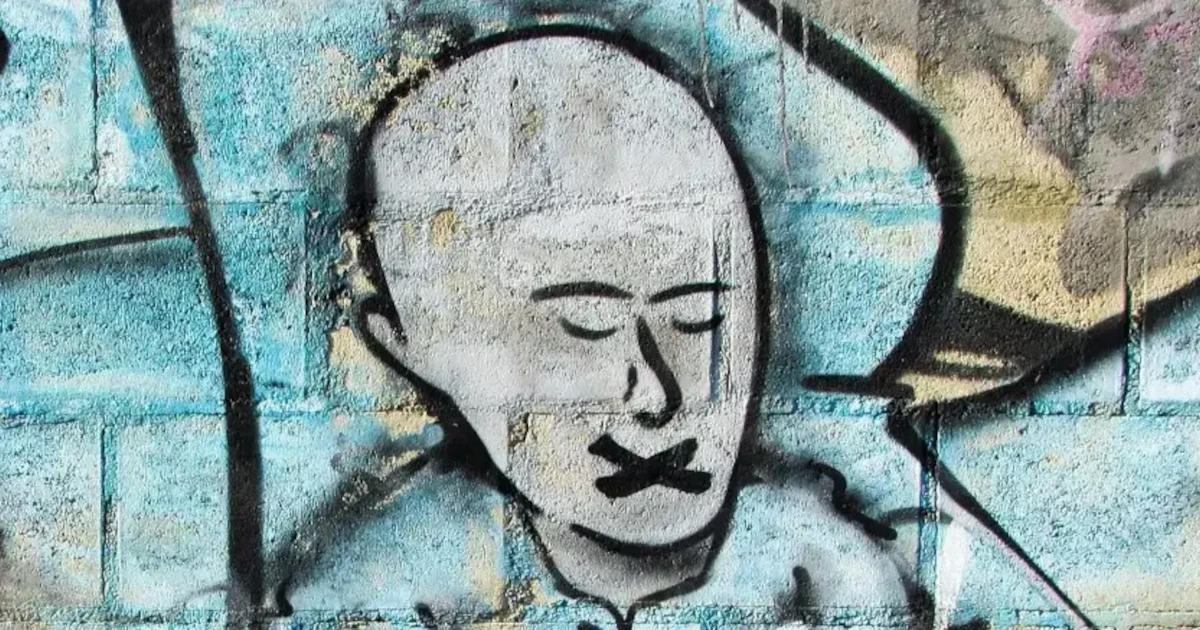
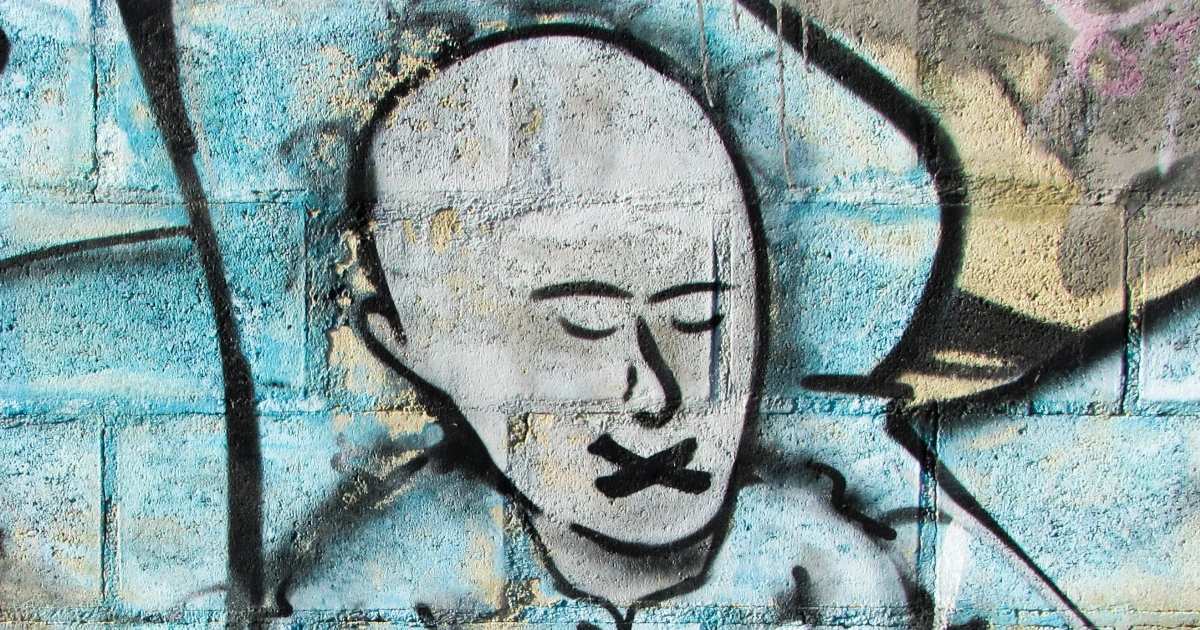
Add post eet-aneb-jak-se-resi-problem-dalsim-problemem, update cover images

Changed region(s): [[0.0, 0.0, 1.0, 1.0]]

diff --git a/_posts/2016-09-07-eet-aneb-jak-se-resi-problem-dalsim-problemem.md b/_posts/2016-09-07-eet-aneb-jak-se-resi-problem-dalsim-problemem.md
@@ -1,0 +1,25 @@
+---
+title: EET aneb Jak se řeší problém dalším problémem
+date: 2016-09-07 14:36:37 +0200
+categories: [Politika]
+tags: []
+image:
+  path: /assets/posts/eet-aneb-jak-se-resi-problem-dalsim-problemem/cover.webp
+  alt: Hromada blyštivých mincí.
+---
+
+Už nás to brzy čeká. Geniální a spásná elektronická evidence tržeb. Od 1. prosince 2016 začne platit pro hotely a restaurace. Od 1. března 2017 potom pro maloobchody a velkoobchody a od roku 2018 (na další dvě etapy) pro zbytek. K čemu je to vlastně dobré? Pomůže to něčemu?
+
+Termín zavedení se několikrát posouval. Ať už to bylo kvůli průtahům ve sněmovně, kvůli tomu, že se zákon několikrát měnil, nebo kvůli technické stránce věci, stále nebylo dlouhou dobu jasné, kdy se má systém spustit. Komické na tom celém ale ani není tak odkládání jako spíš podstata věci. Proč pan Babiš přišel zrovna s něčím takovým? Inspirací mu, dle jeho slov, bylo Chorvatsko. Země, kde podle něj už několik let EET bez problémů funguje. Ale je to skutečně tak?
+
+Od zavedení EET v Chorvatsku se výběr daní nijak razantně nezvýšil (viz [výkaz Ministerstva financí Chorvatska](https://web.archive.org/web/20171112225314/http://www.mfin.hr/adminmax/docs/Drzavni%20proracun%20-%20sijecanj%20-%20studeni%202014.xlsx)). Je vlastně stejný, přestože chorvatská vláda [zvýšila v roce 2012 DPH z 23 % na 25 %](https://www.avalara.com/vatlive/en/vat-news/croatia-introduces-new-vat-rate-rules.html). Nezaměstnanost vzrostla v letech 2012–2015 z 15 % na 17 % a [zhruba 40 tisíc živnostníků skončilo](https://ec.europa.eu/eurostat/databrowser/view/LFSA_ESGAN2__custom_611274/default/table?lang=en). Není vidět ani jeden pozitivní přínos.
+
+A když se nad tím zamyslíte, tak to vlastně ani moc nedává smysl. O co panu Babišovi jde? O poctivější výběr daní? Dobře, to je krásná myšlenka. Ale co zabrání člověku nevytisknout účtenku a vzít si peníze na ruku? Pokud někdo bude chtít podvádět, tak ho EET nezastaví. Navíc je hodně paradoxní fakt, že se evidence vztahuje i na platby kartou. A to i pokud je platba realizována přes prostředníka (PayPal apod.). To znamená, že tyto platby, ačkoli jsou rovnou evidovány na účtu, se ještě jednou musí evidovat pomocí EET. Což se bohužel týká drtivé většiny e-shopů u nás. Pro větší e-shopy to asi až takový problém nebude, ačkoli budou muset zainvestovat do (dost možná drahého) rozšíření systému. Menší e-shopy ale pravděpodobně možnost platby kartou odstraní a pro některé to může být přímo likvidační. No není ta budoucnost skvělá?
+
+Co si ale už pan Babiš neuvědomuje, je to, že nejvíce daňových podvodů se neděje u drobných podnikatelů a živnostníků. To koneckonců dokázal i průběh v Chorvatsku. Výběr daní se nijak nezvýšil. Velké podvody v řádu milionů se prostě a jednoduše dějí ve velkých firmách. A tam nepomůže ani EET.
+
+A nejde jen o daně, nýbrž o zneužívání dotací, pochybné státní zakázky atd. Proč řešit jeden problém dalším problémem? Proč stále jen přidávat další a další komplikace podnikatelům v podobě EET nebo např. kontrolních hlášení (což není nic jiného, než daňové přiznání každý měsíc)? Proč omezovat lidi tím, že musí investovat do drahé elektronické podkladny a internetového připojení? A můžeme opravdu věřit Ministerstvu v tom, že systém bude fungova tak spolehlivě, jak tvrdí? Půjde o miliony požadavků denně, což není legrace. Chce to stabilní systém a velký výkon. To, jak stát zvládá podobné projekty, jsme viděli už u Registru vozidel. A tam bylo požadavků řádově mnohem méně.
+
+Mě osobně se elektronická evidence týkat nebude, platby za faktury přijímám převodem na účet. Proč to tedy ale řeším? Z principu. Začít u nás s podnikáním je poměrně složité. Dokazuje to i naše umístění na [tomto seznamu](https://web.archive.org/web/20160907053253/http://www.doingbusiness.org/rankings) (položka „Starting a Business“). Nechci jen kritizovat nápady pana Babiše, proto navrhnu alternativu. Proč se naopak nesnažit podnikání zjednodušit? Proč neomezit zbytečnou administrativu? A proč navíc v první řadě nevyřešit problémy státního rozpočtu? Stát chce během tohoto roku (2016) nabrat 13 000 nových zaměstnanců. To je přeci vzhledem k momentální situaci naprostá šílenost.
+
+Ať už je to omezování výdajů, snížení počtu státních zaměstnanců, rušení zbytečných úřadů a paradoxně i snížení daní (vzhledem k tomu, že pak více lidí podniká a odvede se více peněz), to všechno rozpočtu pomáhá. Z nějakého důvodu nemám v tomto ohledu v naši vládu důvěru. Pan Babiš se chvástá tím, že snížil schodek státního rozpočtu. No ano, schodek je nižší, jenže tam pořád je. Neměla by snad vláda vést vyrovnaný rozpočet? A neměla by to být samozřejmost? Např. ve Švýcarsku je toto dáno ústavou. Bylo by moc hezké, kdyby si vláda nejprve zametla před vlastním prahem a až potom hledala peníze jinde.
